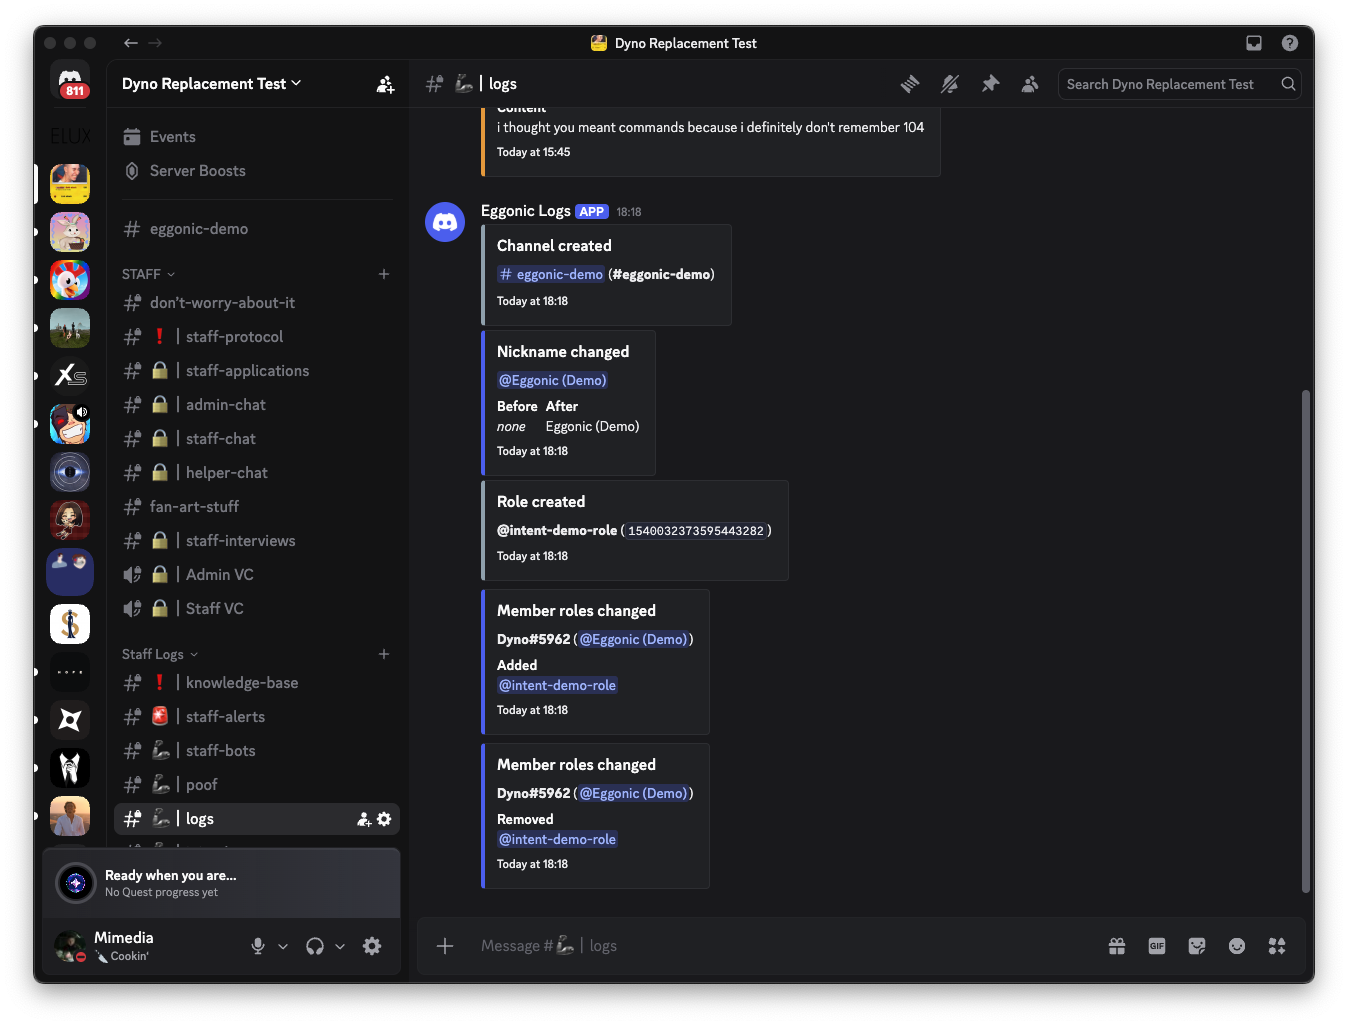
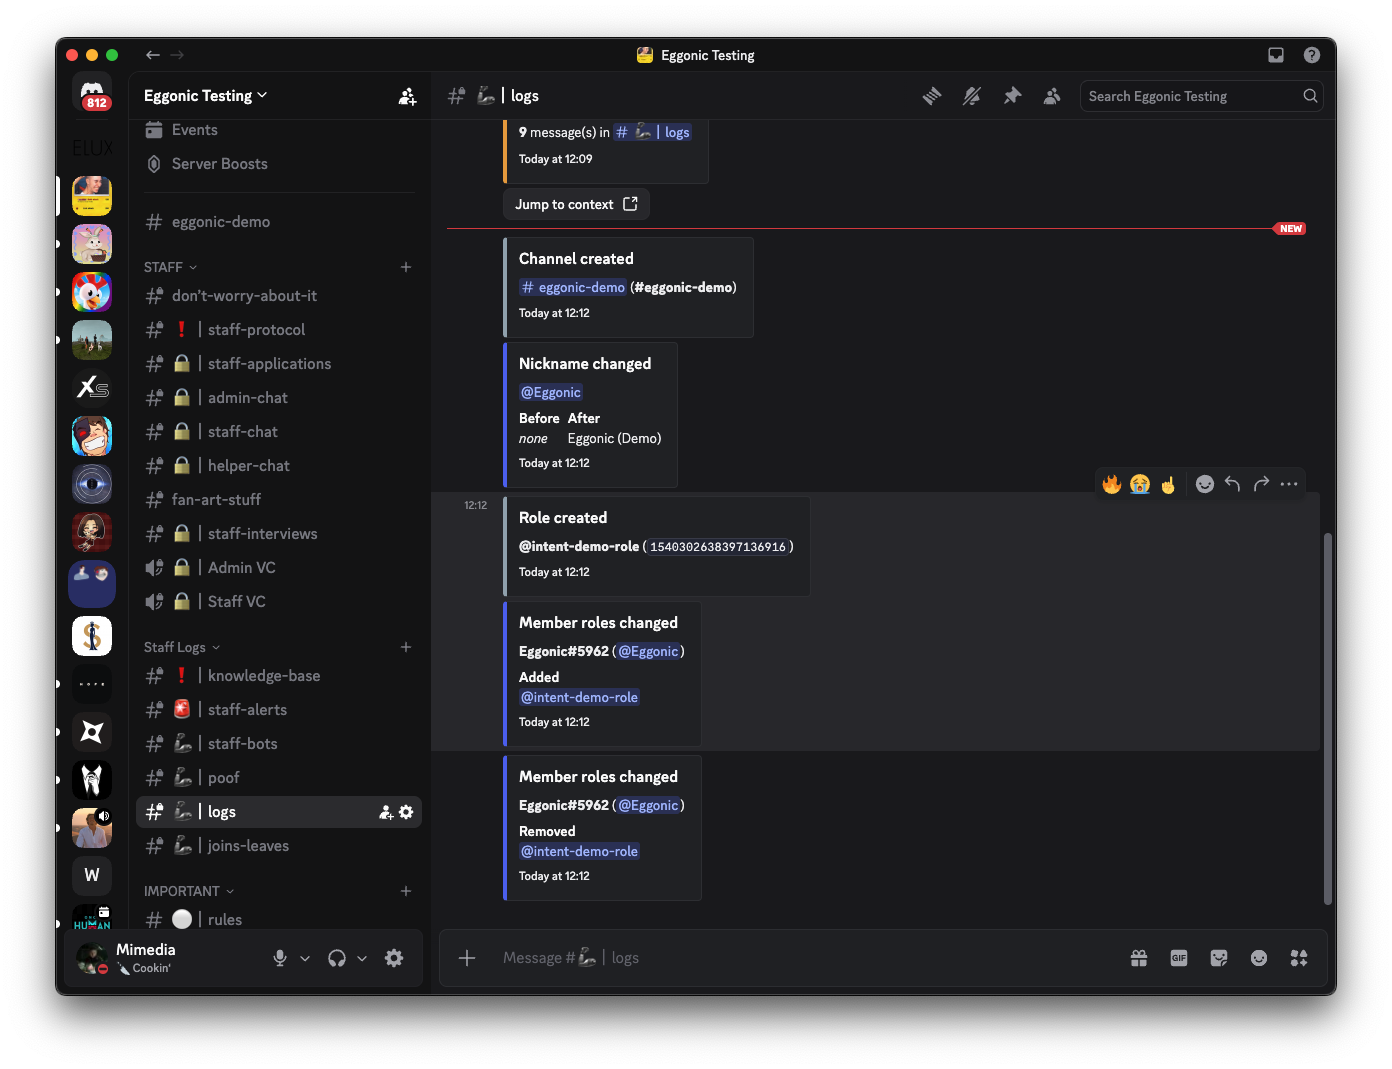
redo evidence screenshots with Eggonic identity

Changed region(s): [[0.0, 0.0, 0.997, 0.999], [0.3116, 0.1873, 0.592, 0.8429], [0.7789, 0.4371, 0.8724, 0.4683]]

diff --git a/evidence/message-content.md b/evidence/message-content.md
@@ -3,16 +3,15 @@
 Two screenshots from a live server. All features shown require reading
 message text and are configured per server, off by default.
 
-**1. Message logging with content.** A message edit logged with its
-before/after text and a jump button, and two deleted messages logged with
-their content — one deleted by a moderator action, one deleted
-automatically by the chat filter:
+**1. Message logging with content.** Deleted messages logged with their
+text and a jump-to-context button, and an edit logged with its
+before/after diff and a jump-to-message button. The sequence also shows
+filter evasion handling: a member edited a clean message INTO a banned
+word, and the filter caught the edit and removed it:
 
-![Server log showing edited and deleted message content](02-message-content-logs.png)
+![Server log showing deleted and edited message content](02-message-content-logs.png)
 
-**2. Chat filter enforcement.** A member's message containing a configured
-banned word was deleted automatically and answered with a removal notice.
-The server owner's identical message directly above it was deliberately
-spared — owners and administrators are exempt from filters by design:
+**2. Chat filter enforcement.** The automatic in-channel removal notice
+answering the member whose message the filter deleted:
 
 ![Chat filter removal notice in the channel](03-chat-filter-notice.png)
